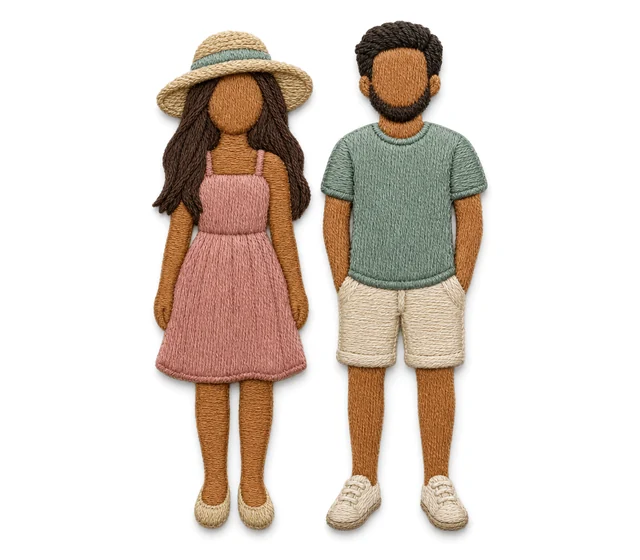
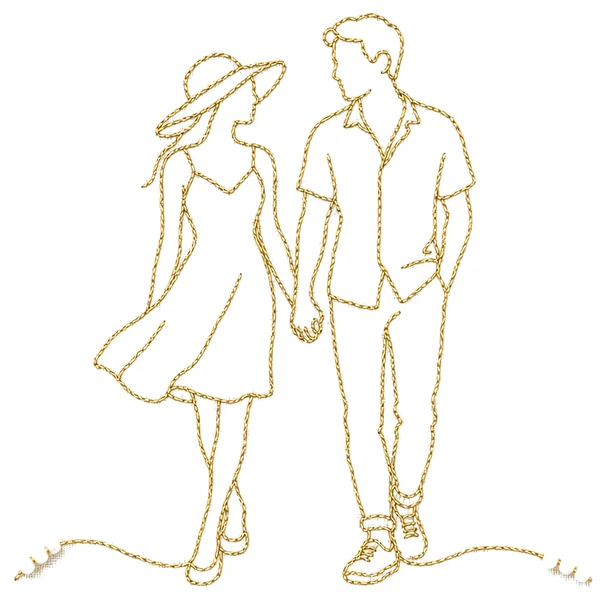
Update site

diff --git a/event-data.js b/event-data.js
@@ -101,7 +101,7 @@ window.WEDDING = {
       mapsQuery: 'Envue, Autograph Collection, 550 Avenue at Port Imperial, Weehawken, NJ 07086',
       note: 'Envue is in Weehawken, New Jersey, across the Hudson from Midtown Manhattan (not in Manhattan itself).',
       dressCode: 'Indo-Western',
-      dressArt: 'art/dress-indo-western.webp',
+      dressArt: 'art/dress-indo-western.webp?v=2',
       events: [
         { time: 'From 4:00 PM', name: 'Arrival and hotel check-in', place: 'Envue, Autograph Collection' },
         { time: '7:00–11:00 PM', name: 'Sangeet', place: 'Envue Rooftop' },
@@ -133,7 +133,7 @@ window.WEDDING = {
       address: '26 Paris Avenue, Rockleigh, NJ 07647',
       mapsQuery: 'The Rockleigh, 26 Paris Avenue, Rockleigh, NJ 07647',
       dressCode: 'Traditional Indian',
-      dressArt: 'art/dress-traditional.webp',
+      dressArt: 'art/dress-traditional.webp?v=2',
       events: [
         { time: '3:00 PM', name: 'Baraat', icon: 'art/icon-baraat.webp' },
         { time: '4:00–5:30 PM', name: 'Wedding ceremony', icon: 'art/icon-ceremony.webp' },
@@ -168,7 +168,7 @@ window.WEDDING = {
       mapsQuery: 'Sheep Meadow, Central Park, New York, NY',
       note: 'Exact meeting point and entrance to come.',
       dressCode: 'Casual',
-      dressArt: 'art/dress-casual.webp',
+      dressArt: 'art/dress-casual.webp?v=2',
       events: [{ time: '2:00 PM', name: 'Park Day' }],
       rsvpLabel: 'Park Day',
       rsvpDate: 'Sat, Aug 28, optional',

diff --git a/app.js b/app.js
@@ -129,7 +129,7 @@
       ${d.optional ? `<p class="reveal"><span class="tag">Optional</span></p>` : ''}
       <div class="reveal">${schedule(d)}</div>
       ${d.dressCode ? `<div class="dress reveal">
-        ${d.dressArt ? `<img src="${esc(d.dressArt)}" width="640" height="560" loading="lazy" alt="Embroidered illustration of two guests dressed in ${esc(d.dressCode)} attire">` : ''}
+        ${d.dressArt ? `<img src="${esc(d.dressArt)}" width="600" height="600" loading="lazy" alt="A gold-thread outline of a couple dressed in ${esc(d.dressCode)} attire">` : ''}
         <div><p class="label">Dress code</p><p class="dress-name">${esc(d.dressCode)}</p></div>
       </div>` : ''}
       <p class="venue reveal">${venue}${d.address ? `<br>${esc(d.address)}` : ''}</p>

diff --git a/index.html b/index.html
@@ -12,7 +12,7 @@
   <link href="https://fonts.googleapis.com/css2?family=Cormorant+Garamond:ital,wght@0,300;0,400;0,500;0,600;1,400;1,500&family=Cormorant+SC:wght@500;600&display=swap" rel="stylesheet">
   <link rel="preload" as="image" href="art/door-left.webp">
   <link rel="preload" as="image" href="art/door-right.webp">
-  <link rel="stylesheet" href="styles.css?v=15">
+  <link rel="stylesheet" href="styles.css?v=16">
   <script>document.documentElement.classList.add('js', 'locked');</script>
 </head>
 <body>
@@ -158,7 +158,7 @@
   </footer>
 
 </main>
-<script src="event-data.js?v=9"></script>
-<script src="app.js?v=15"></script>
+<script src="event-data.js?v=10"></script>
+<script src="app.js?v=16"></script>
 </body>
 </html>

diff --git a/styles.css b/styles.css
@@ -292,7 +292,7 @@ h2 {
 }
 
 .dress { display: flex; align-items: center; justify-content: center; gap: 14px; margin-top: 28px; text-align: left; }
-.dress img { width: 128px; flex: none; }
+.dress img { width: 150px; flex: none; }
 .dress-name { font: 400 24px/1.2 var(--serif); font-style: normal; }
 .venue { margin-top: 22px; font-size: 19px; line-height: 1.4; }
 .venue a, .venue strong { font: 500 22px/1.3 var(--serif); font-style: normal; text-decoration-color: var(--gold); text-underline-offset: 4px; }
